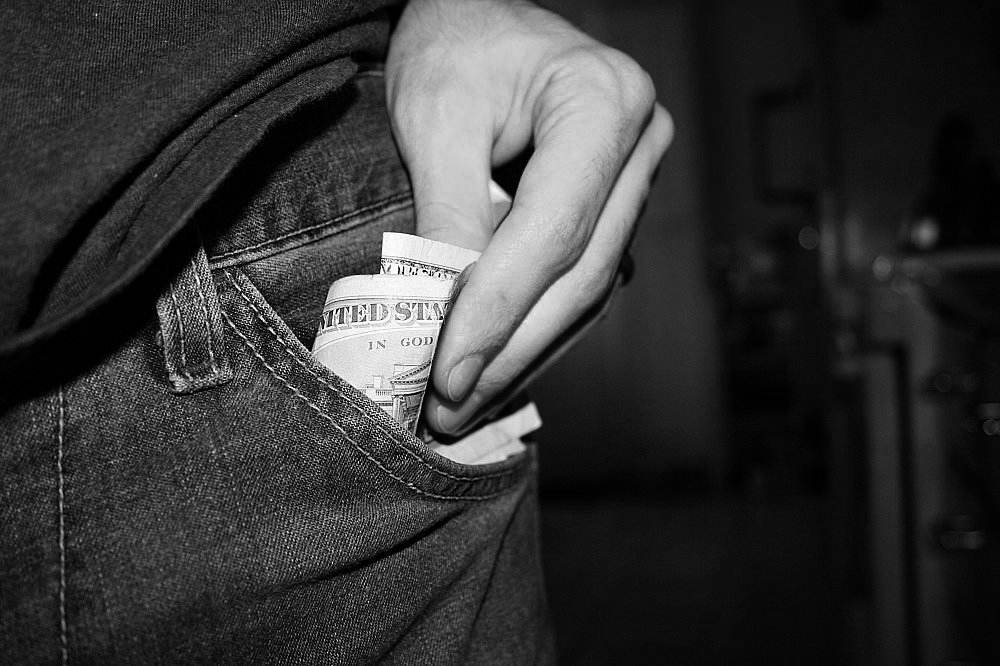
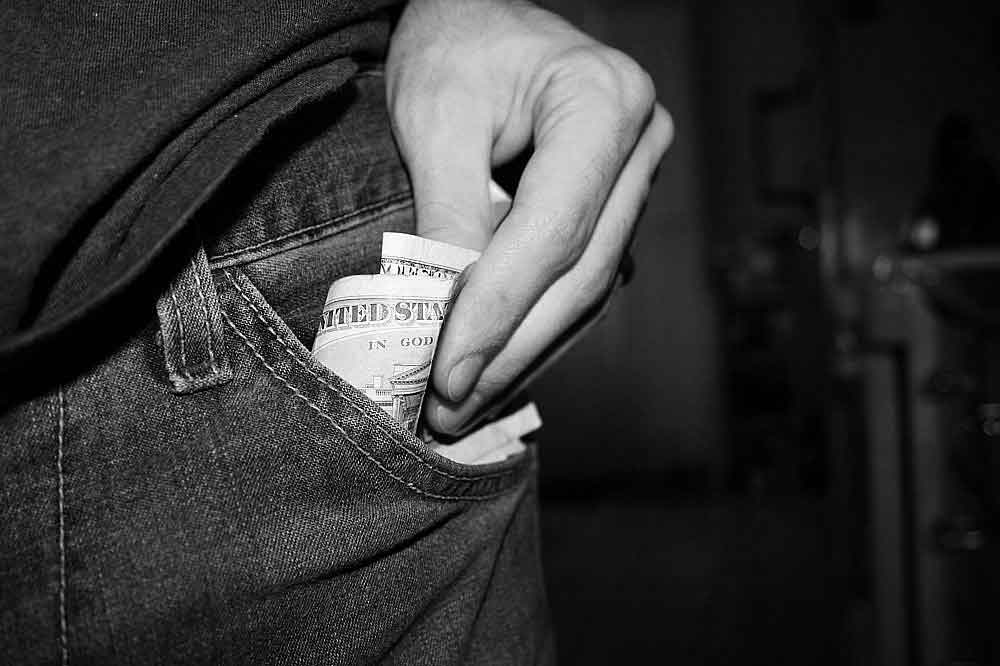
changed image size

diff --git a/index.html b/index.html
@@ -2,6 +2,12 @@
 <html>
 <head>
 	<title>Double Charged: The App</title>
+  <!-- Facebook Open graph -->
+  <meta property="og:title" content="Double Charged: The App" />
+  <meta property="og:site_name" content="Youth Radio"/>
+  <meta property="og:description" content="In the juvenile justice system, young people charged with a crime can be subject to jail time, probation, and fines and fees. Youth Radio's Innovation Lab invites you to explore these stories to see how court-related debt can add up." />
+  <meta property="og:url" content="http://http://youthradio.github.io/index.html" />
+
 	<meta name="viewport" content="width=device-width, initial-scale=1.0">
 	<link rel="stylesheet" href="http://netdna.bootstrapcdn.com/bootstrap/3.1.1/css/bootstrap.min.css">
 	<link rel="stylesheet" type="text/css" href="css/fonts.css">
@@ -20,7 +26,7 @@
 			</div>
 			<div class="row">
 				<div id="title" class="col-xs-10 col-sm-12">
-					<h1>Double Charged: Fines and Fees</h1>
+					<h1>Double Charged: The App</h1>
 				</div>
 			</div>
 
@@ -65,6 +71,8 @@
 </footer>
 </div>
 </div>
+
+<!-- Modal -->
 
 <div class="modal fade" id="myModal">
   <div class="modal-dialog">
